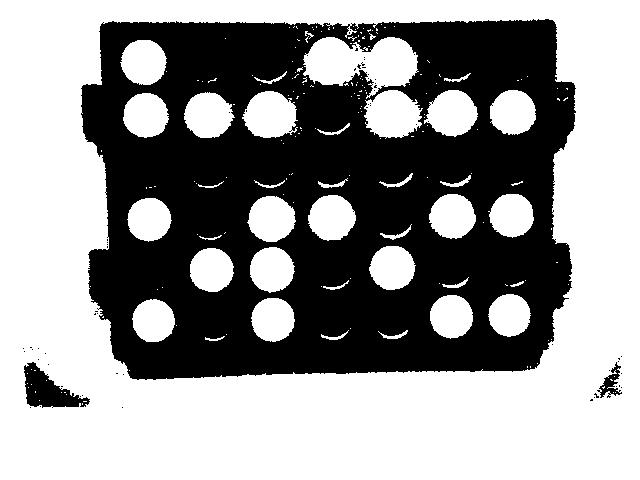
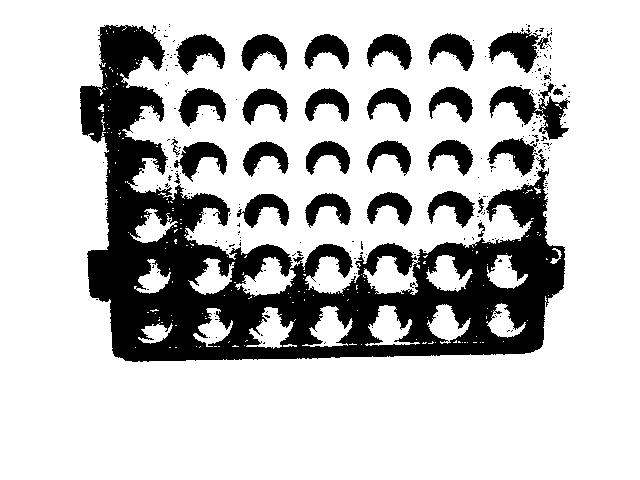
Finales

Changed region(s): [[0.125, 0.0312, 0.9062, 0.8125], [0.0312, 0.75, 0.1562, 0.875], [0.9375, 0.75, 0.9688, 0.8438]]

diff --git a/convertirImgToMatrix.py b/convertirImgToMatrix.py
@@ -1,30 +1,35 @@
 from PIL import Image
 import math
 import PIL
+from PIL import ImageDraw
+import numpy as np
 
 # Espacio: 0
 # Fichas blancas (IA): 1
 # Fichas Negras (Enemigo): -1
 
-def isBlack(r, g, b):
-    if r < 110 and r > 15 and g < 80 and g > 40 and b < 110 and b > 60:
-        return True
-    return False
+# Retorna el numero del color identificado: 0 Negro, 1 Blanco, 2 Verde
+def getColor(color):
+    # Valores malechores ;)
+    avgBlack = 63.30769231
+    avgWhite = 210.5897436
+    avgGreen = 113.8717949
+    
 
-def isWhite(r, g, b):
-    if r > 140 and g > 220 and b > 220:
-        return True
-    return False
+    c = color[0] + color[1] + color[2]
+    c = c / 3
 
-def isRed(r, g, b):
-    if r < 200 and r >= 90 and g < 110 and g > 50 and b < 110 and b > 45:
-        return True
-    return False
+    distancias = []
+    distancias.append(abs(c - avgBlack))
+    distancias.append(abs(c - avgWhite))
+    distancias.append(abs(c - avgGreen))
 
-def isFondo(r, g, b):
-    if r > 25 and r < 50 and g > 145 and g < 215 and b > 128 and b < 195:
-        return True
-    return False
+    mini = min(distancias)
+    i = 0
+    while i < 3:
+        if distancias[i] == mini:
+            return i
+        i += 1
 
 # Retorna la posicion del pixel inicial y final en donde se encuentra el tablero (Verticalmente)
 def delimitarAlto(img, w, h):
@@ -92,84 +97,32 @@ def delimitarAncho(img, w, h):
         i -= 1 # Avanzar en el ciclo
     return(posIni + 10, posFin)
 
-def getStates(img2, L):
-    #Variables necesarias
-    countR = 0
-    countB = 0
-    countW = 0
-    countE = 0
-    flagE = False
-    flagW = False
-    flagB = False
-    flagR = False
-    flagF = False
-    v = []
-    i = 100
-    k = 0
-    #Recorro la imagen
-    while i < 640:
-        (r,g,b) = img2.getpixel((i, L))
-        #Determino si ya estoy en la parte roja del tablero
-        if flagR is not True:
-            if isRed(r,g,b):
-                countR = countR + 1
-            if countR > 5:
-                countR = 0
-                flagR = True
-        else:
-            if flagF is not True:
-                if isRed(r,g,b) is not True:
-                    if isFondo(r,g,b):
-                        countE = countE + 1
-                    elif isBlack(r,g,b):
-                        countB = countB + 1
-                    elif isWhite(r,g,b):
-                        countW = countW + 1 
-                    if countE > 5:
-                        flagE = True
-                        flagF = True
-                    elif countB > 5:
-                        flagB = True
-                        flagF = True
-                    elif countW > 5:
-                        flagW = True
-                        flagF = True
-            else:
-                if k <= 6:
-                    if flagB:
-                        v.append(-1)
-                        flagB = False
-                        flagF = False
-                        flagR = False
-                        countB = 0
-                        k = k + 1
-                    elif flagW:
-                        v.append(1)
-                        flagW = False
-                        flagF = False
-                        flagR = False
-                        countW = 0
-                        k = k + 1
-                    elif flagE:
-                        v.append(0)
-                        flagE = False
-                        flagF = False
-                        flagR = False
-                        countE = 0
-                        k = k + 1
-        i = i + 1
-    return v
-    
-def createMatrix(V1, V2, V3, V4, V5, V6):
-    mat = [V1, V2, V3, V4, V5, V6]
-    #print len(mat)
-    return mat
+# Retorna el tipo de estado de la ficha, segun el color del centro de su delimitacion
+def getPoints(img, w, h):
+    # Sacamos la mitad de los cuadros
+    ySpace = math.trunc(w / 7) # n
+    yCenter = math.trunc(ySpace / 2) # m
+    xSpace = math.trunc(h / 6) 
+    xCenter = math.trunc(xSpace / 2)
 
-def validarMatrix(matrix):
-    for i in range(0,len(matrix) - 1):
-        if len(matrix[i]) < 7:
-            return False
-    return matrix
+    # Matriz de puntos de los centros
+    puntos = []
+
+    for i in xrange(1, 15, 2):
+        p = []
+        for j in xrange(1, 13, 2):
+            p.append((yCenter * i, xCenter * j))
+        puntos.append(p)
+
+    return puntos
+
+# Dibuja una linea sobre los centros de la cuadricula horizontalmente
+def drawPoints(img, w, h, matriz):
+    draw = ImageDraw.Draw(img)
+    for i in range(0, len(matriz)):
+    
+        draw.line(matriz[i],  (255, 215, 0, 255))
+    img.save("editadas/centros.jpg")
 
 # Vuelve la foto blanco y negro sacando los promedios de RGB
 def binarizarImg(img):
@@ -185,6 +138,7 @@ def cortarImg(img, xMin, yMin, xMax, yMax):
     img.save("editadas/cortada.png","PNG")
     return img
 
+# Dibuja la cuadricula de la foto
 def dibujarCuadricula(img, w, h):
     # Dibujar rayas Verticales
     space = math.trunc(w/7)
@@ -197,8 +151,41 @@ def dibujarCuadricula(img, w, h):
         for x in range(0, w): # Todo el ancho
             img.putpixel((x, space*i), (255, 215, 0, 255))
     img.save("editadas/cuadricula.png","PNG")
-    
 
+# Saca los estados de la imagen
+def getStates(img, puntos):
+    matrix = []
+
+    for i in range(0, len(puntos)):
+        aux = []        
+        flagSpace = False
+        for j in reversed(range(0, len(puntos[0]))):
+            c = img.getpixel(puntos[i][j])
+            index = getColor(c)
+            
+            if not flagSpace:
+                if index == 0:
+                    # Si es Nigga
+                    aux.append(-1)
+                elif index == 1:
+                    # Si es no Nigga
+                    aux.append(1)
+                elif index == 2:
+                    # Si es aguacate
+                    flagSpace = True
+                    aux.append(0)
+            else:
+                aux.append(0)
+
+        aux.reverse()
+        matrix.append(aux)
+
+    matrix = np.transpose(matrix)    
+    return matrix
+
+
+
+# Funcion principal que ejecuta todo
 def ejecutar(path):
     # Cargar la imagen
     try:  
@@ -222,4 +209,10 @@ def ejecutar(path):
     (w, h) = imgC.size # Sacar tamanno a la imagen
     dibujarCuadricula(imgC, w, h)
 
-    return imgC
+    # Saca los centros la cuadricula
+    centros = getPoints(imgC, w, h)
+
+    # Sacar los estados de la cuadricula
+    matrix = getStates(imgC, centros)
+
+    return matrix

diff --git a/__main__.py b/__main__.py
@@ -1,47 +1,45 @@
 import getImagePhoto as take
 import sendText as talk
 import convertirImgToMatrix as conv
-import os
 import time
 from naoqi import ALProxy
 import Fourinline as games
 # desktop-keel9jm.local.:54103
 # nao.local 9559
-# if __name__ == '__main__':
-#     IP = "nao.local"  # Replace here with your NaoQi's IP address.
-#     PORT = 9559
-#     #while True:
-#     path = take.showNaoImage(IP, PORT)
-#     #print path
-#     matrix = conv.ejecutar(path)
-#         # print matrix
-
-#         # if matrix != False:
-#         #     jugada = games.play(matrix)
-#         #     talk.talkSinNAO("Put the piece in the colum " + str(jugada), IP, PORT)
-#         #     talk.talkSinNAO("It is your turn", IP, PORT)
-#         #     time.sleep(10)
-#         # else:
-#         #     talk.talkSinNAO("I can't see right the game", IP, PORT)
-#         #     time.sleep(5)
-
 if __name__ == '__main__':
-    # path1 = "editadas/cuadricula"
-    # stri = "imagenes/prueba"
-    # matrix = conv.ejecutar(path)
-    # matrix.save(path1)
-    for i in range(1,20):
-        stri = "imagenes/prueba"
-        path1 = "cuadricula/prueba"
-        stri = stri + str(i)
-        stri = stri + ".png"
-        path1 = path1 + str(i)
-        path1 = path1 + ".png"
-        path = stri
+    IP = "nao.local"  # Replace here with your NaoQi's IP address.
+    PORT = 9559
+    #while True:
+    # path = take.sinNAO(IP, PORT)
+    path = "imagenes/prueba18.png"
+    print path
+    matrix = conv.ejecutar(path)
+    print matrix
 
-        print path
-        matrix = conv.ejecutar(path)
-        matrix.save(path1)
-    # print path
-    # matrix = conv.ejecutar(path)
-    #path = "imagenes/pruebaNao1.png" # Las fotos de Nao son .png
+    jugada = games.play(matrix)
+    talk.talkSinNAO("Put the piece in the colum " + str(jugada), IP, PORT)
+    talk.talkSinNAO("It is your turn", IP, PORT)
+    time.sleep(10)
+
+
+# if __name__ == '__main__':
+#     # path1 = "editadas/cuadricula"
+#     stri = "imagenes/prueba9.png"
+#     matrix = conv.ejecutar(stri)
+#     # matrix.save(path1)
+
+#     # for i in range(1,20):
+#     #     stri = "imagenes/prueba"
+#     #     path1 = "cuadricula/prueba"
+#     #     stri = stri + str(i)
+#     #     stri = stri + ".png"
+#     #     path1 = path1 + str(i)
+#     #     path1 = path1 + ".png"
+#     #     path = stri
+
+#     #     print path
+#     #     matrix = conv.ejecutar(path)
+#         # matrix.save(path1)
+#     # print path
+#     # matrix = conv.ejecutar(path)
+#     #path = "imagenes/pruebaNao1.png" # Las fotos de Nao son .png

diff --git a/Fourinline.py b/Fourinline.py
@@ -55,9 +55,9 @@ class Node(object):
     return self.f() < other.f()
   
   def repeatStatePath(self, state):
-      n=self
-      while n is not None and n.state!=state:
-          n=n.parent
+      n = self
+      while n is not None and n.state is not state:
+          n = n.parent
       return n is not None
     
   def pathObjective(self):
